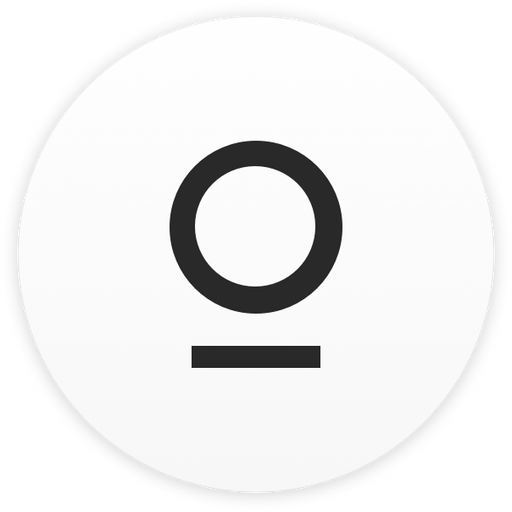
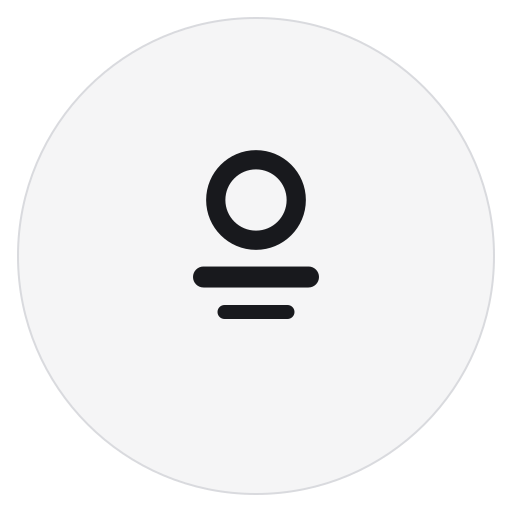
feat: apply Platform brand identity

diff --git a/packages/app/src/onboarding/Presenter.tsx b/packages/app/src/onboarding/Presenter.tsx
@@ -14,6 +14,8 @@ import {
   Platform,
 } from './[email redacted]';
 
+const platformLogo = require('../static/logos/platform-logo.svg');
+
 export interface Classes {
   container: string,
   section: string,
@@ -85,12 +87,9 @@ const styles = (theme: ThemeTypes) => ({
     width: '100%',
   },
   brand: {
-    color: '#111214',
-    fontFamily: '"SF UI Display", "Noto Sans", sans-serif',
-    fontSize: 28,
-    fontWeight: 400,
-    letterSpacing: '-0.6px',
-    lineHeight: '34px',
+    display: 'block',
+    width: 144,
+    height: 50,
   },
   trafficLights: {
     position: 'fixed',
@@ -234,7 +233,7 @@ class Presenter extends React.PureComponent<Props, State> {
 
         <div className={classes!.section}>
           <div className={classes!.sectionHeader}>
-            <div className={classes!.brand} aria-label="Platform">platform</div>
+            <img className={classes!.brand} src={platformLogo} alt="Platform" />
           </div>
 
           <SlideX step={step}>